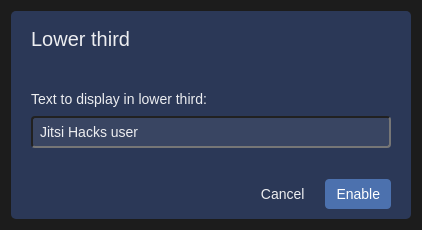
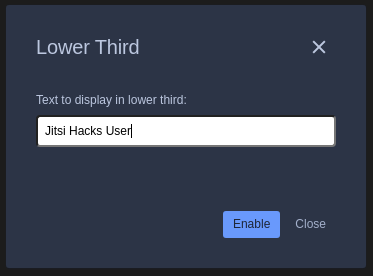
Update lower third script for new Jitsi UI

diff --git a/docs/lower-third.js b/docs/lower-third.js
@@ -231,32 +231,164 @@ if (!window.JitsiMeetJS) {
     }
   }
 
-  function showLowerThirdDialog() {
-    APP.UI.messageHandler.openDialog(
-      "Lower third",
-      `
-      <div style="margin-bottom: 0.5em">
-        <label for="lower-third-text">Text to display in lower third:</label>
-      </div>
-      <input class="input-control" type=text name="lower-third-text" id="lower-third-text" autofocus>
-      `,
-      false,
-      {
-        'Enable': true,
-        'Cancel': false
-      },
-      (e, submitValue) => {
-        if (submitValue) {
-          let text = $('#lower-third-text').val();
-          saveLowerThirdText(text);
-
-          enableLowerThird();
+  function addLowerThirdStyles() {
+    $('head').append(`
+      <style>
+        .modal {
+          display: none;
         }
-      },
-      () => {
-        $('#lower-third-text').val(lowerThirdEffect.text);
-      }
-    );
+        .modal.is-open {
+          z-index: 1000;
+          display: block;
+        }
+        .modal__footer {
+          display: flex; 
+          justify-content: flex-end;
+        }
+        .modal__overlay {
+          z-index: 1000;
+          position: fixed;
+          top: 0;
+          left: 0;
+          right: 0;
+          bottom: 0;
+          background: rgba(0,0,0,0.6);
+          display: flex;
+          justify-content: center;
+          align-items: center;
+        }
+        .modal__container {
+          min-width: 30em;
+          background-color: rgb(40, 52, 71);
+          padding: 30px;
+          max-width: 500px;
+          max-height: 100vh;
+          overflow-y: auto;
+          box-sizing: border-box;
+          border-radius: 3px;
+          box-shadow: rgb(9 30 66 / 8%) 0px 0px 0px 1px, rgb(9 30 66 / 8%) 0px 2px 1px, rgb(9 30 66 / 31%) 0px 0px
+        }
+        .modal__header {
+          display: flex;
+          justify-content: space-between;
+          align-items: center;
+        }
+        .modal__title {
+          margin-top: 0;
+          margin-bottom: 0;
+          box-sizing: border-box;
+          font-size: 20px;
+          font-style: inherit;
+          font-weight: 500;
+          letter-spacing: -0.008em;
+          line-height: 1;
+          color: rgb(184, 199, 224);
+        }
+        .modal__close {
+          background: transparent;
+          border: 0;
+          fill: #b8c7e0;
+        }
+        .modal__content {
+          margin-top: 2rem;
+          margin-bottom: 2rem;
+          line-height: 1.5;
+          color: rgb(184, 199, 224);
+        }
+        .modal__btn {
+          -webkit-box-align: baseline;
+          align-items: baseline;
+          border-width: 0px;
+          border-radius: 3px;
+          box-sizing: border-box;
+          display: inline-flex;
+          font-size: inherit;
+          font-style: normal;
+          font-family: inherit;
+          font-weight: 500;
+          max-width: 100%;
+          position: relative;
+          text-align: center;
+          text-decoration: none;
+          transition: background 0.1s ease-out 0s, box-shadow 0.15s cubic-bezier(0.47, 0.03, 0.49, 1.38) 0s;
+          white-space: nowrap;
+          background: none;
+          cursor: pointer;
+          height: 2.28571em;
+          line-height: 2.28571em;
+          padding: 0px 10px;
+          vertical-align: middle;
+          width: auto;
+          -webkit-box-pack: center;
+          justify-content: center;
+          color: rgb(159, 176, 204) !important;
+        }
+        .modal__btn:focus, .modal__btn:hover {
+          background: rgb(49, 61, 82);
+          text-decoration: inherit;
+          transition-duration: 0s, 0.15s;
+          color: rgb(159, 176, 204) !important;
+        }
+        .modal__btn:active {
+          background: rgb(179, 212, 255);
+          transition-duration: 0s, 0s;
+          color: rgb(0, 82, 204) !important;
+        }
+        .modal__btn_primary {
+          margin-right: 5px;
+          -webkit-box-align: baseline;
+          align-items: baseline;
+          border-width: 0px;
+          border-radius: 3px;
+          box-sizing: border-box;
+          display: inline-flex;
+          font-size: inherit;
+          font-style: normal;
+          font-family: inherit;
+          font-weight: 500;
+          max-width: 100%;
+          position: relative;
+          text-align: center;
+          text-decoration: none;
+          transition: background 0.1s ease-out 0s, box-shadow 0.15s cubic-bezier(0.47, 0.03, 0.49, 1.38) 0s;
+          white-space: nowrap;
+          background: rgb(76, 154, 255);
+          cursor: pointer;
+          height: 2.28571em;
+          line-height: 2.28571em;
+          padding: 0px 10px;
+          vertical-align: middle;
+          width: auto;
+          -webkit-box-pack: center;
+          justify-content: center;
+          color: rgb(27, 38, 56) !important;
+        }
+        .modal__btn_primary:focus, .modal__btn_primary:hover {
+          background: rgb(179, 212, 255);
+          text-decoration: inherit;
+          transition-duration: 0s, 0.15s;
+          color: rgb(27, 38, 56) !important;
+        }
+        .modal__btn_primary:active {
+          background: rgb(38, 132, 255);
+          transition-duration: 0s, 0s;
+          color: rgb(27, 38, 56) !important;
+        }
+      </style>
+    `);
+  }
+
+  function showLowerThirdDialog() {
+    $('#lower-third-text').val(lowerThirdEffect.text);
+    
+    MicroModal.show('modal-lower-third');
+  }
+
+  function onLowerThirdEnabled() {
+    let text = $('#lower-third-text').val();
+    saveLowerThirdText(text);
+
+    enableLowerThird();
   }
 
   function onToggleButtonClick() {
@@ -281,9 +413,47 @@ if (!window.JitsiMeetJS) {
 
     toggleButton.click(onToggleButtonClick);
 
-    $('div.button-group-right').prepend(toggleButton);
+    $('div.toolbox-button-wth-dialog').before(toggleButton);
+  }
+  
+  function addLowerThirdDialog() {
+    $(document.body).append(`
+      <div class="modal micromodal-slide" id="modal-lower-third" aria-hidden="true">
+        <div class="modal__overlay" tabindex="-1" data-micromodal-close>
+          <div class="modal__container" role="dialog" aria-modal="true" aria-labelledby="modal-lower-third-title">
+            <header class="modal__header">
+              <h2 class="modal__title" id="modal-lower-third-title">Lower Third</h2>
+              <button class="modal__close" aria-label="Close modal" data-micromodal-close>
+                <svg height="22" width="22" viewBox="0 0 24 24" data-micromodal-close><path d="M18.984 6.422L13.406 12l5.578 5.578-1.406 1.406L12 13.406l-5.578 5.578-1.406-1.406L10.594 12 5.016 6.422l1.406-1.406L12 10.594l5.578-5.578z"></path></svg>
+              </button>
+            </header>
+            <main class="modal__content" id="modal-lower-third-content">
+              <div style="margin-bottom: 0.5em">
+                <label for="lower-third-text">Text to display in lower third:</label>
+              </div>
+              <input class="input-control" type=text name="lower-third-text" id="lower-third-text" autofocus>
+            </main>
+            <footer class="modal__footer">
+              <button id="lower-third-enable-button" class="modal__btn modal__btn_primary" data-micromodal-close aria-label="Enable lower third">Enable</button>
+              <button class="modal__btn" data-micromodal-close aria-label="Close this dialog window">Close</button>
+            </footer>
+          </div>
+        </div>
+      </div>
+    `);
+    
+    $('#lower-third-enable-button').click(onLowerThirdEnabled);
+  }
+  
+  function addMicroModalScript() {
+      let script = document.createElement('script');
+      script.src = 'https://jitsi-hacks.cketti.eu/micromodal.min.js';
+      document.body.appendChild(script);
   }
 
+  addMicroModalScript();
+  addLowerThirdStyles();
+  addLowerThirdDialog();
   addLowerThirdToggleButton();
 
   APP.keyboardshortcut.registerShortcut('L', null, () => {
